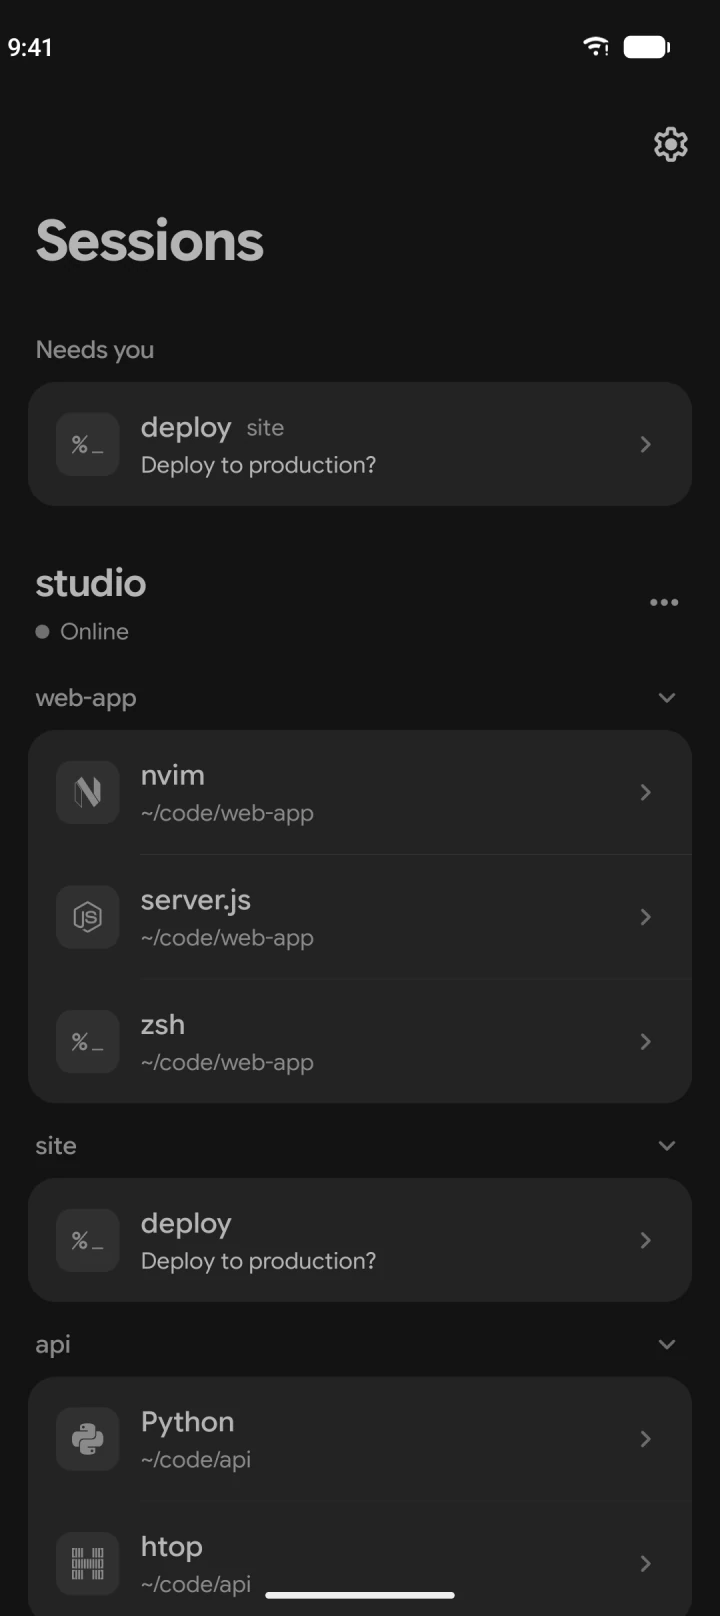
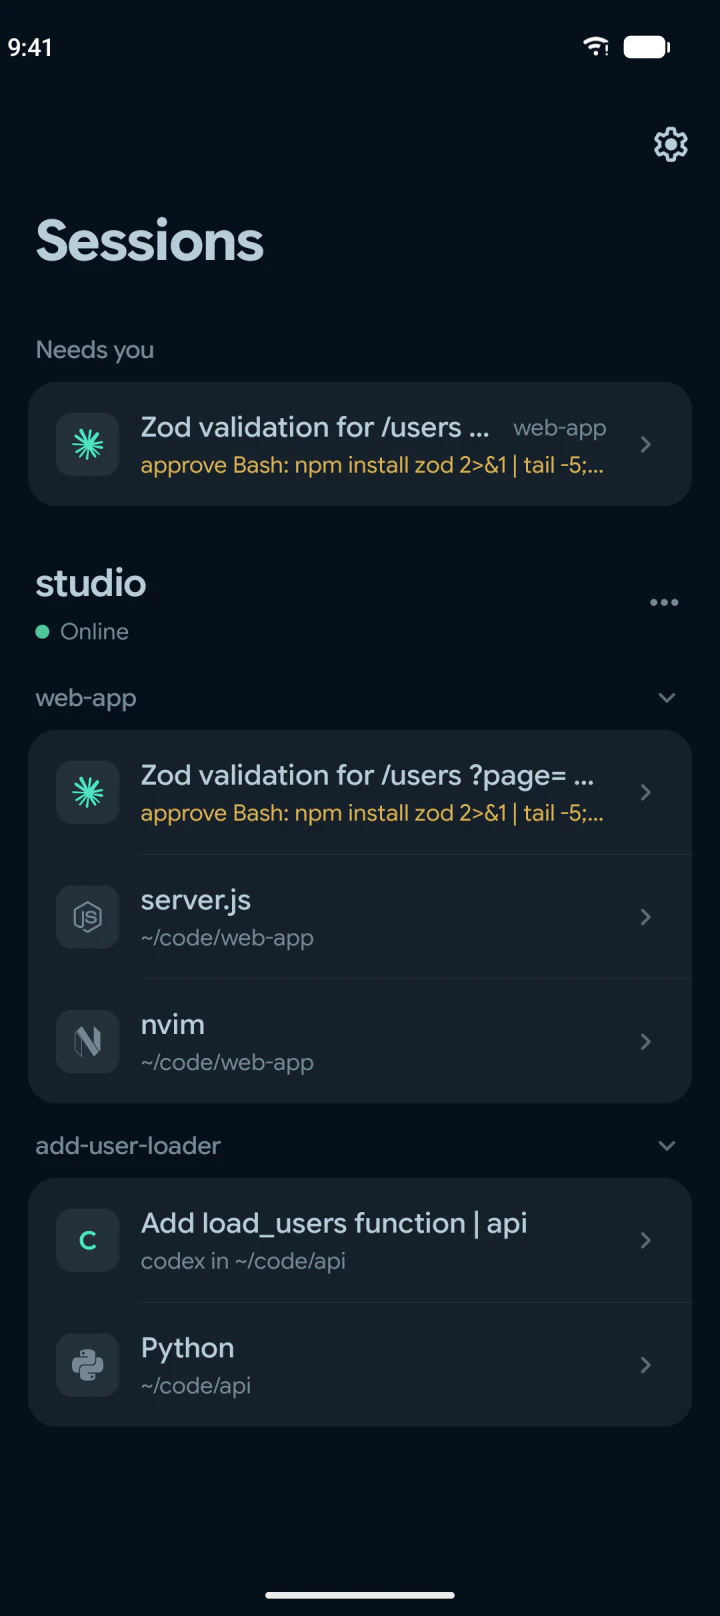
docs: show Claude Code and Codex in the README screenshots
The screenshots use the new default dark theme and show Claude Code
waiting for permission and Codex taking a follow-up. The feature list
is down to the Tailscale node and the Rex themes.

diff --git a/README.md b/README.md
@@ -5,20 +5,13 @@ Mac. It shows the sessions and tabs running in Rex on your computers, and opens 
 live terminal on your phone.
 
 <p>
-  <img src="docs/screenshots/home.webp" width="260" alt="Sessions on a computer, with a tab that waits for an answer at the top">
-  <img src="docs/screenshots/terminal.webp" width="260" alt="Neovim in a pane">
-  <img src="docs/screenshots/keyboard.webp" width="260" alt="Answering a prompt with the keyboard and the extra key row">
+  <img src="docs/screenshots/home.webp" width="260" alt="Sessions on a computer, with Claude Code waiting for permission at the top">
+  <img src="docs/screenshots/terminal.webp" width="260" alt="Claude Code asking for permission in a pane">
+  <img src="docs/screenshots/keyboard.webp" width="260" alt="Typing to Codex with the keyboard and the extra key row">
 </p>
 
-- See every session and tab on each computer you add, and what runs in each one.
-- Open a pane as a full terminal. A key row above the keyboard gives you Esc, Ctrl, Alt, Tab and
-  the arrows.
-- Programs that wait for you, such as a coding agent asking for permission, show at the top. With
-  background alerts on, they also come as notifications.
-- Split, rename and close panes, tabs and sessions.
-- Rax can run its own Tailscale node, so it reaches your computers over Tailscale while the rest of
-  your phone stays off it. You don't need the Tailscale app.
-- Rex's color themes, light and dark, and 10 terminal fonts.
+- Rax runs its own Tailscale node, so your whole phone doesn't have to run a VPN.
+- We've also bundled all the familiar Rex themes straight from the official clients!
 
 ## Install
 
